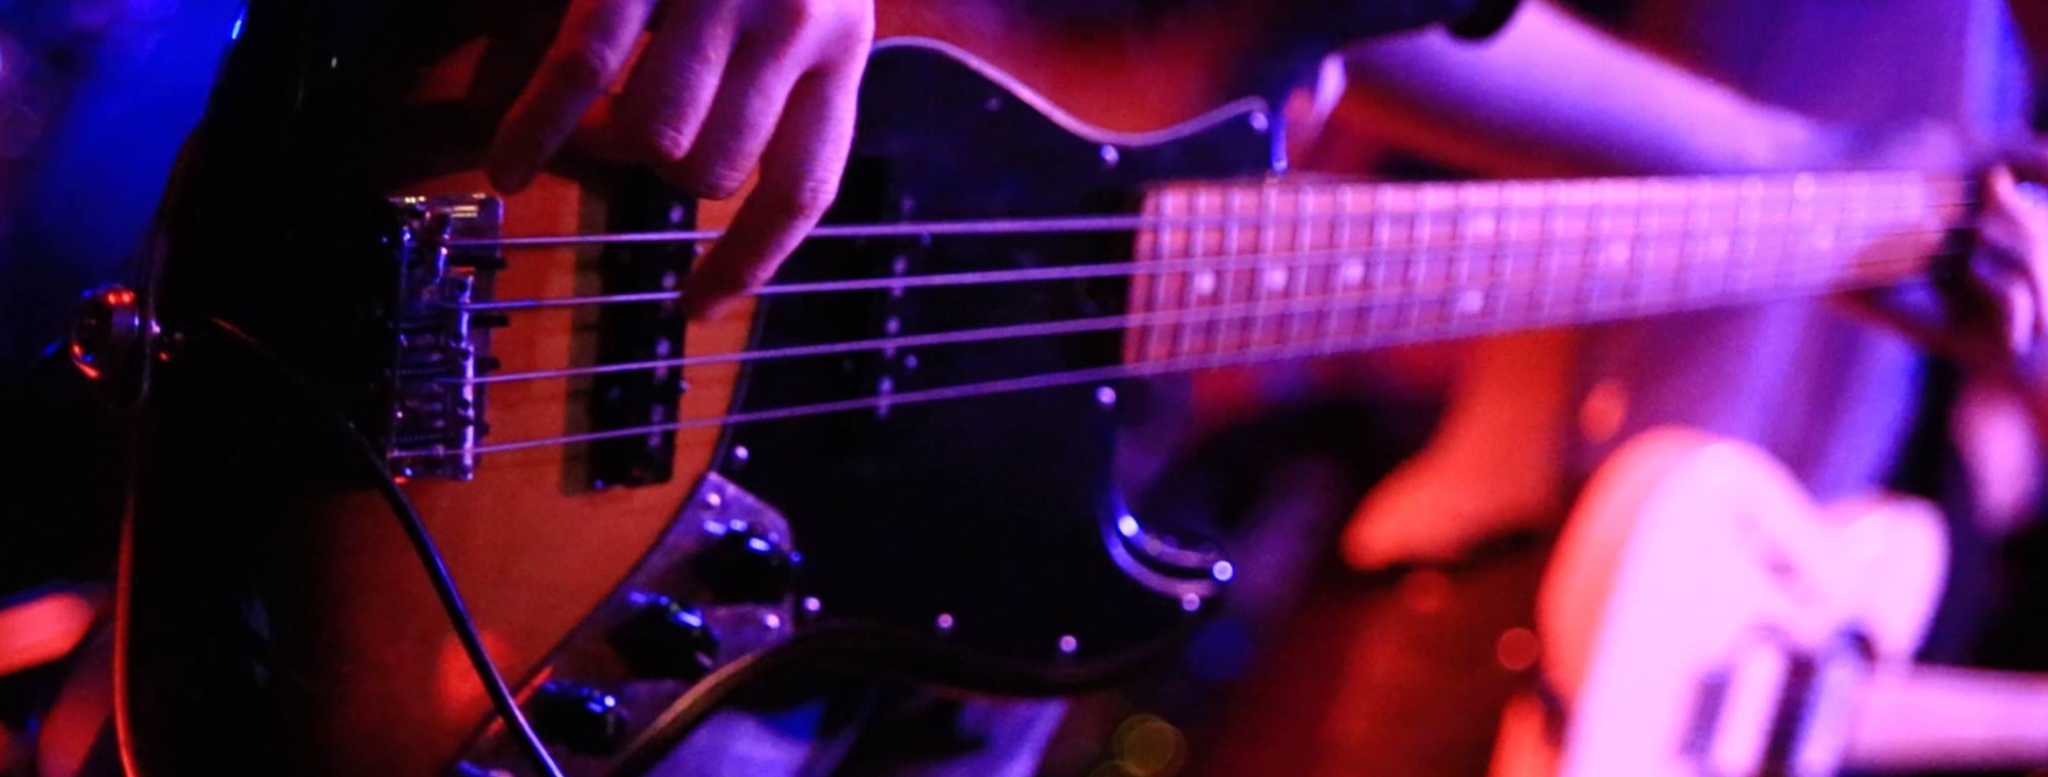
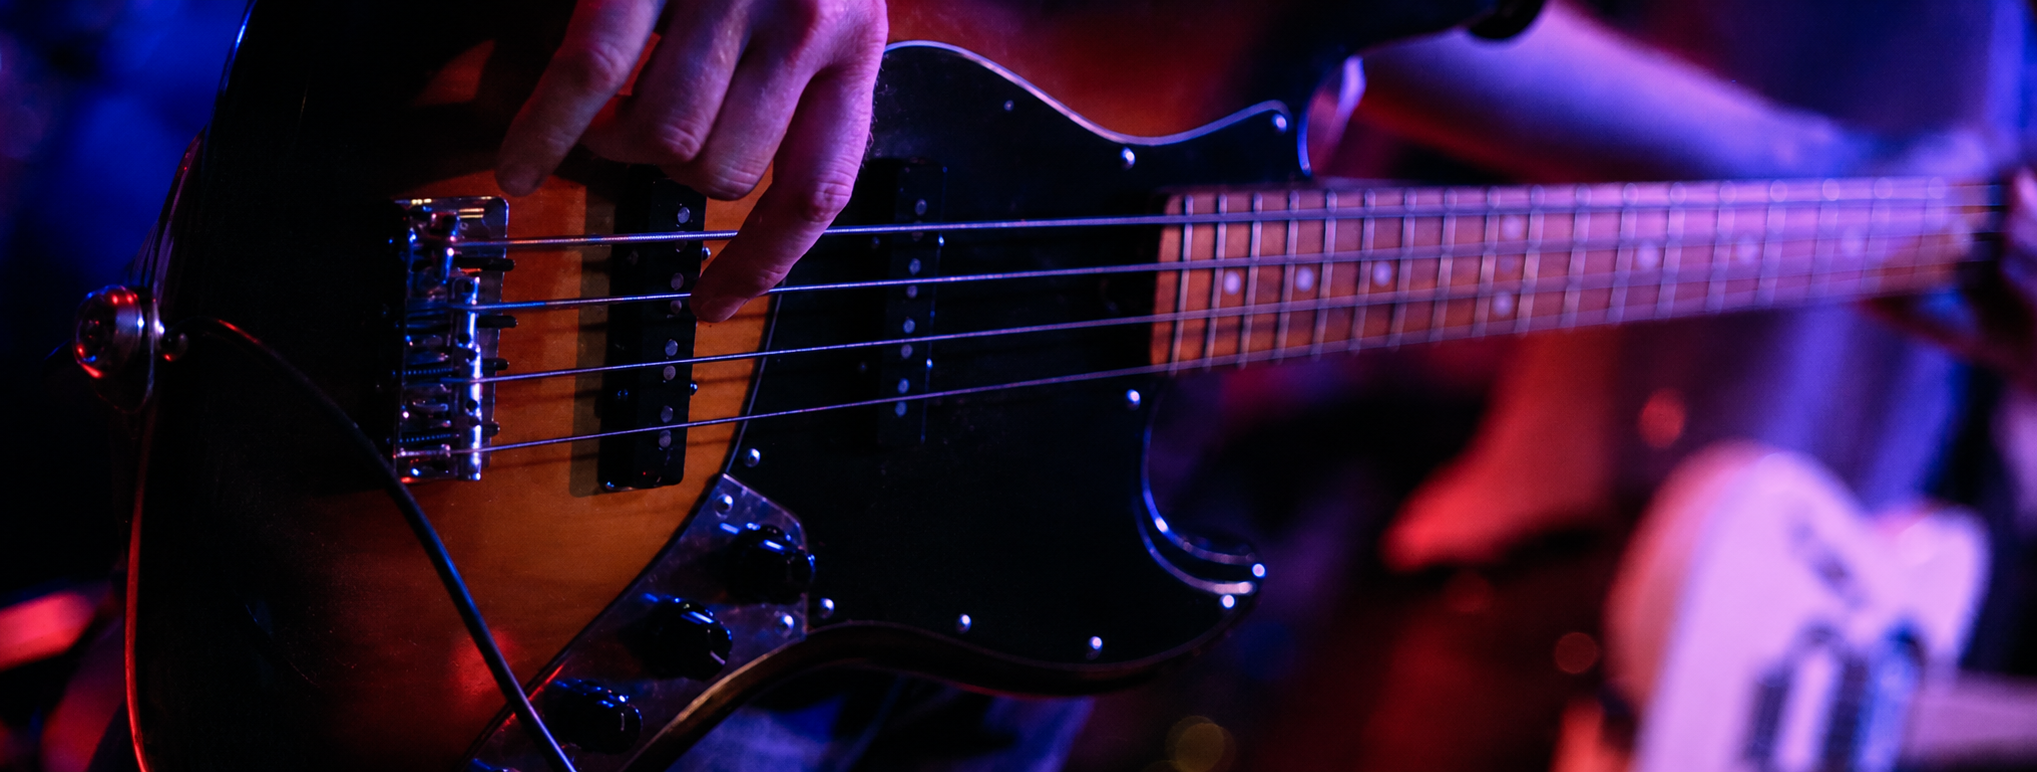
cleanup

diff --git a/components/about/Carousel.tsx b/components/about/Carousel.tsx
@@ -13,7 +13,7 @@ const slides = [
     title: 'Always Exploring',
     subtitle: 'Lifelong Learner',
     description:
-      "I've lived and traveled across the U.S., and currently call Salem MA home. Exploring new places, meeting new people, and experiencing different perspectives keeps me curious—something I bring to web development by always looking for new ideas, approaches, and ways to improve.",
+      "I've lived and traveled across the U.S. and currently call Salem, MA home. Exploring new places, meeting new people and experiencing different perspectives keeps me curious—something I bring to web development by always looking for new ideas, approaches and ways to improve.",
   },
   {
     src: '/images/about/gaming.png',
@@ -22,13 +22,13 @@ const slides = [
     title: 'Up for the Challenge',
     subtitle: 'Creative Problem-Solving',
     description:
-      "I've always been a casual gamer, but I've developed a particular love for tabletop games and the strategy, creativity, and social interaction they bring. I enjoy approaching problems from different angles and finding creative solutions, whether it's across a game board or while building an intuitive web experience.",
+      "I've always been a casual gamer, but I've developed a particular love for tabletop games and the strategy, creativity and social interaction they bring. I enjoy approaching problems from different angles and finding creative solutions, whether it's across a game board or while building an intuitive web experience.",
   },
   {
     src: '/images/about/music.jpg',
     alt: 'Music',
     label: 'Music',
-    title: 'Create & Build',
+    title: 'Creating & Building',
     subtitle: 'Artistically Minded',
     description:
       "I started playing bass at 14 and have been creating music ever since. There's something incredibly rewarding about taking an idea and turning it into something people can experience—whether that's playing live, improvising with a band, or bringing an idea to life through thoughtful web design and development.",

diff --git a/app/music/page.tsx b/app/music/page.tsx
@@ -27,7 +27,7 @@ const bands = [
   {
     name: 'Vayden',
     description:
-      'Nu-metal band with classic rock influences and driving energy. We toured nationally and internationally while signed to Silent Majority Group, opening for Candlebox, Tantric, and Drowning Pool.',
+      'Nu-metal band with classic rock influences and driving energy. We toured nationally and internationally while signed to Silent Majority Group, opening for Candlebox, Tantric and Drowning Pool.',
     spotify: 'https://open.spotify.com/album/0xsT0ZeMrSMW2xTyeBp7j9?si=ZOpw_wKjQImaFE-A-60lyQ',
   },
   {
@@ -39,7 +39,7 @@ const bands = [
   {
     name: 'Housmans Athletes',
     description:
-      'A party rock band (though we preferred the term "hardcore pop") influenced equally by metal and country. Shared the festival stage with Rise Against, Alkaline Trio, NOFX, and Flogging Molly.',
+      'A party rock band (though we preferred the term "hardcore pop") influenced equally by metal and country. Shared the festival stage with Rise Against, Alkaline Trio, NOFX and Flogging Molly.',
     spotify: 'https://open.spotify.com/album/3cH8b9TjJKPbA9ZI5MWOut?si=gk1V_BQWSZi6u8yGaWMv-w',
   },
 ]
@@ -94,7 +94,7 @@ export default function MusicPage() {
       {/* Page content */}
       <div className="mt-16 max-w-5xl mx-auto px-6 pb-24 text-center">
         <p className="text-lg font-semibold max-w-2xl mx-auto">
-          I&apos;ve been lucky enough to play in many bands over the years, and here are a few of my favorites.
+          I&apos;ve been lucky enough to play in many bands over the years and here are a few of my favorites.
         </p>
 
         <ul className="mt-10 grid grid-cols-1 sm:grid-cols-2 lg:grid-cols-4 gap-4 text-left">

diff --git a/app/page.tsx b/app/page.tsx
@@ -19,14 +19,17 @@ export default function HomePage() {
             <h1 className="text-5xl sm:text-7xl font-bold tracking-tight text-text">
               Mike Kazmer
             </h1>
-            <p className="text-xl text-text-muted mt-6 max-w-[350px] sm:max-w-[500px]">
+            <p className="text-xl text-text-muted mt-6 max-w-[350px] sm:max-w-[475px]">
               Building thoughtful web experiences, intuitive UIs and melodic bass lines.
             </p>
           </div>
 
           {/* Avatar */}
           <div className="flex justify-center md:justify-end shrink-0">
-            <div className="relative w-64 h-64 sm:w-72 sm:h-72 md:w-80 md:h-80 rounded-full overflow-hidden">
+            <div
+              className="relative w-80 h-80 sm:w-[340px] sm:h-[340px] md:w-[380px] md:h-[380px]"
+              style={{ maskImage: 'radial-gradient(circle closest-side at center, black 92%, transparent 100%)' }}
+            >
               <Image
                 src="/images/avatar_color.png"
                 alt="Mike Kazmer"
